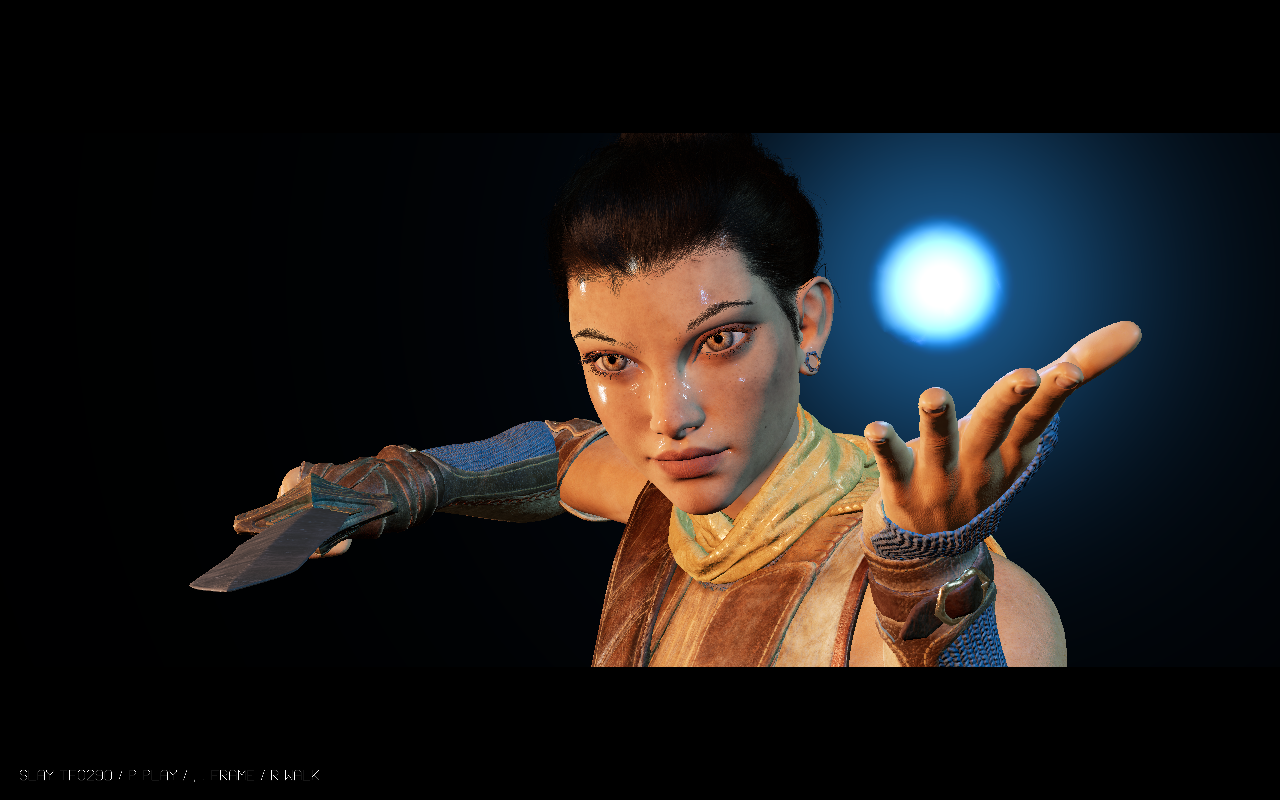
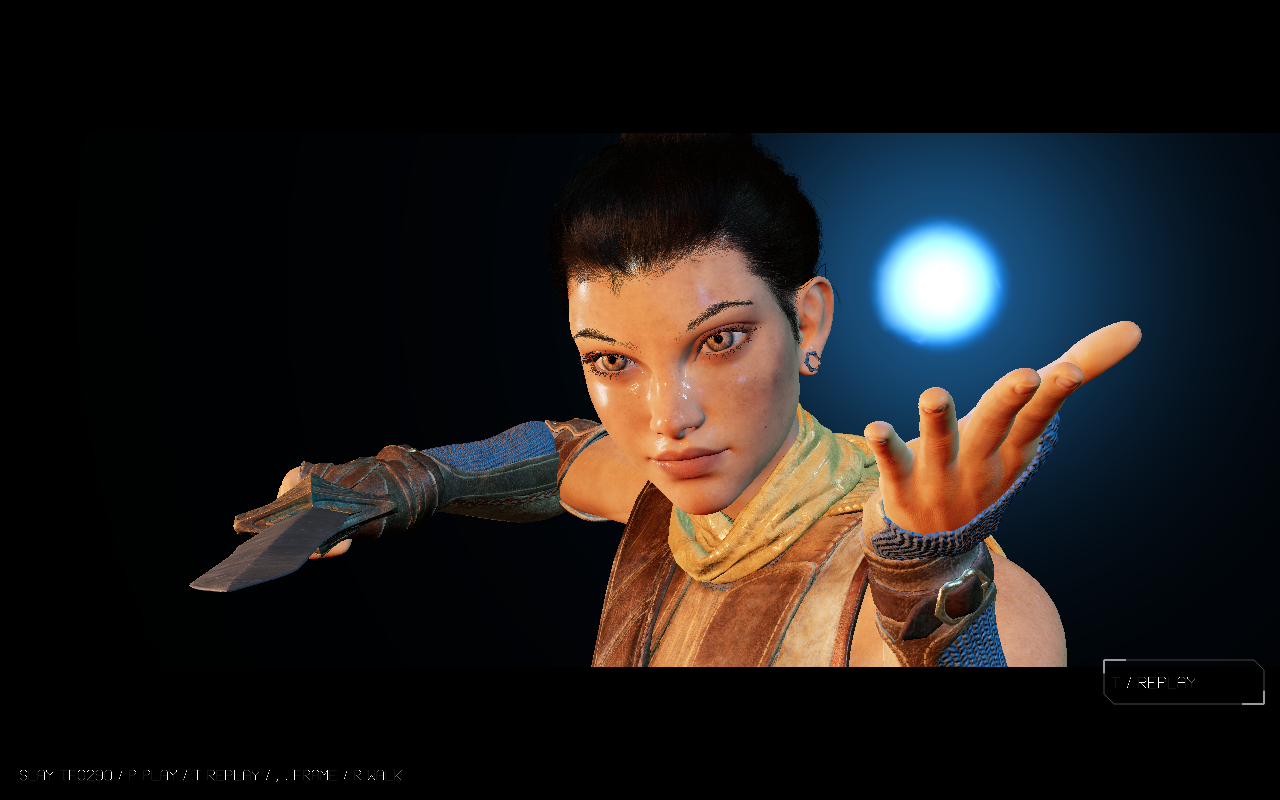
Light Slay skin with its source area key and use the shot lighting in the face views
Widen roughness for TF0290's 64 cm RectLight key and the orb with Unreal's
New_a2 sphere term, add dual-lobe specular and wrapped red-shifted diffuse
for skin, and give the H/F face views the hero frame's lights through a
longer lens.

diff --git a/docs/verification/valley-lab-slay-2026-11-06/README.md b/docs/verification/valley-lab-slay-2026-11-06/README.md
@@ -179,3 +179,23 @@ full linear-HDR compositing, the source material-time phase,
 exact reference frame selection and cinematic background remain open. The
 handheld profile imports the exact source camera template; its recovery and
 mobile cost limitations are retained in that separate record.
+
+## Skin pass and face view, 2026-11-06
+
+- The exported `T_toksvig_macro` is zero in every sampled texel, in both the
+  PNG and a fresh TGA re-export, so it is only a small Toksvig correction. The
+  head's roughness is about 0.1–0.2, as in the source. `MF_PerPartRoughnessModulation`
+  only scales it by 0.85–1.2 per region (plus 0.25 on the chest). Its region
+  masks `T_Head_Skin_001/007/008/009_R` are not exported yet.
+- The pinpoint "wet" highlights came from shading TF0290's 64 x 64 cm
+  RectLight key, 345.18 cm away, as a point. The key and the orb now widen
+  roughness with Unreal's sphere-light `New_a2` term (`SLAY_KEY_SIZE` 0.10462).
+- Skin uses subsurface-profile style lighting: two specular lobes at 0.75x
+  and 1.30x roughness, mixed 0.85, plus wrapped diffuse that carries red past
+  the terminator and bends diffuse normals toward the geometric normal.
+- The H and F face views now use the TF0290 hero frame's lights and the Slay
+  skin profile, moved to Echo, through a longer lens (4.2 at 1.58 m). Before,
+  they used Valley's single generic sun at 0.65 m with a wide lens.
+- T or the on-screen REPLAY button replays the shot; playback stops on the last frame.
+- Still open: orange albedo balance, eye shading, hair volume scattering, and
+  the per-region roughness masks.
